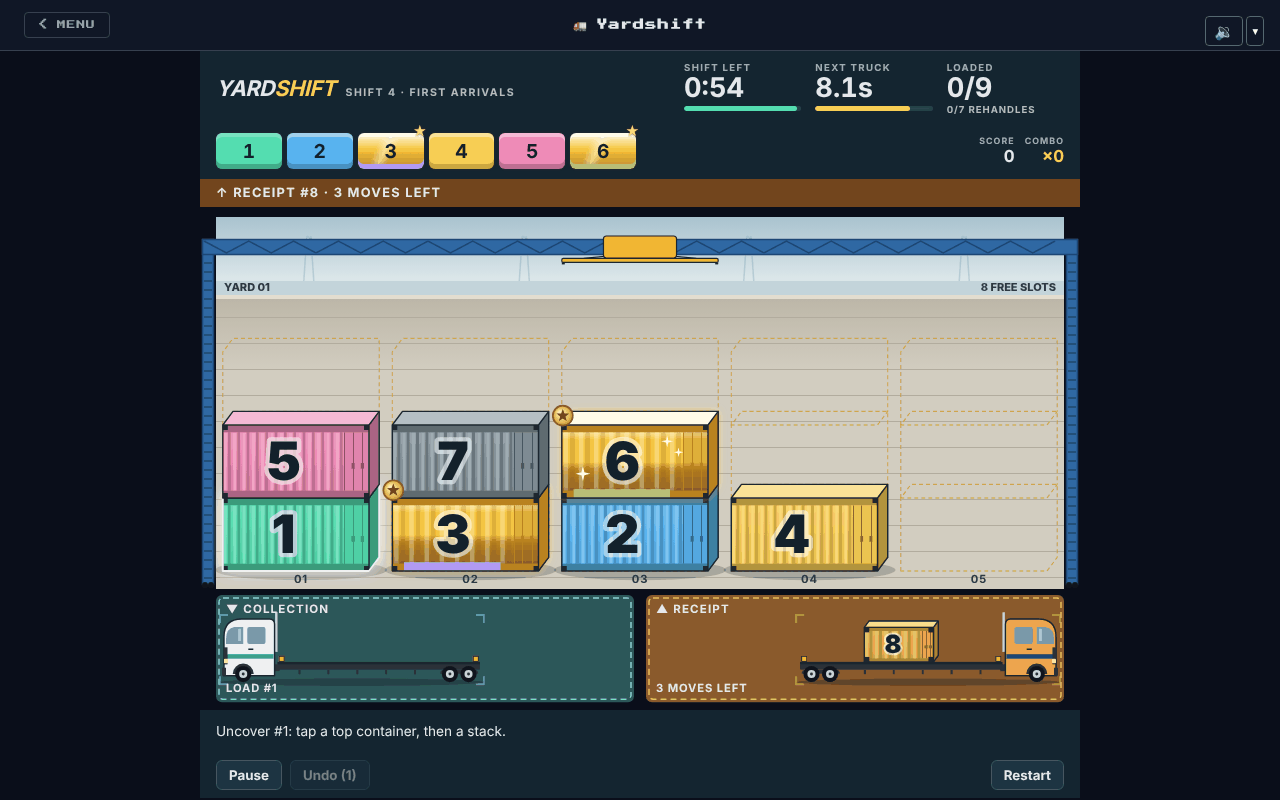
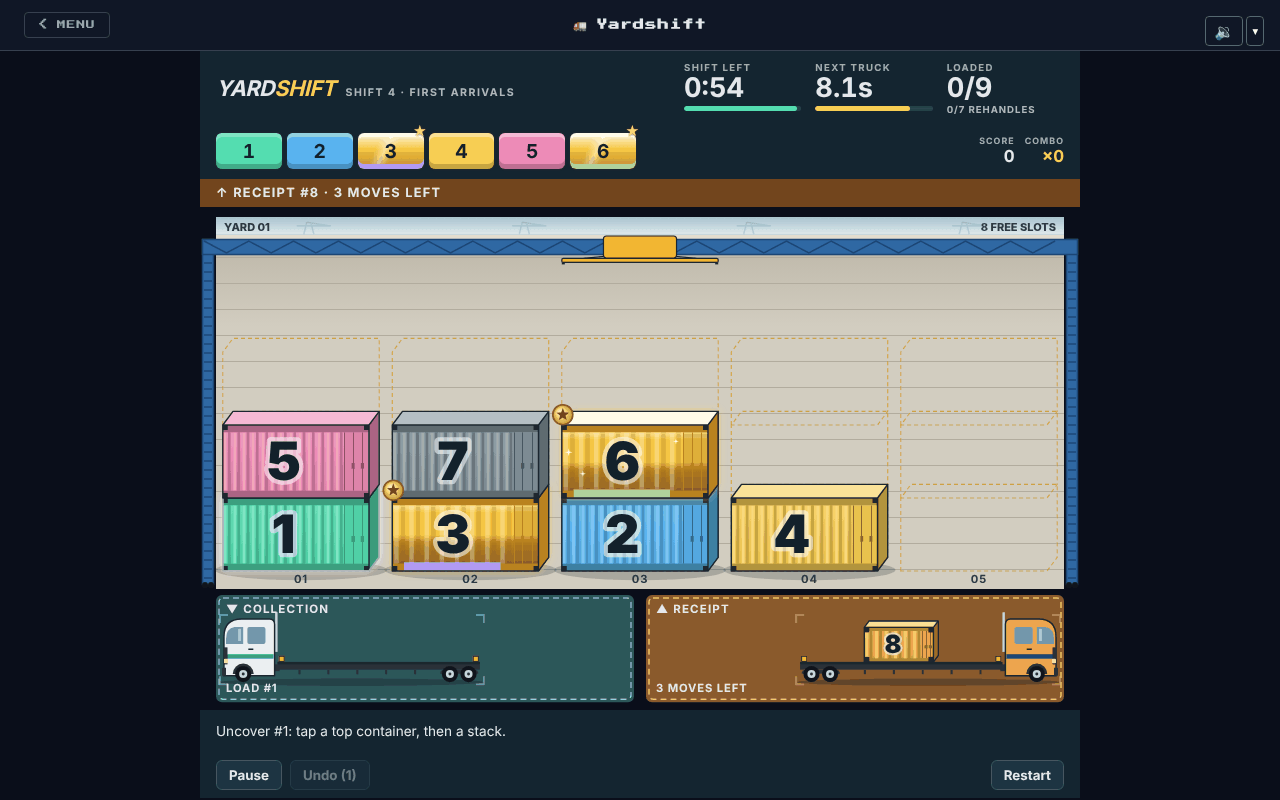
Yardshift: gantry beam at the top of the concrete, cables lower the spreader to the stacks
The beam sat one spreader gap above the crane headroom, so on a tall phone yard it crossed the middle of the
concrete. It now tops the concrete just under the sky band (still capped at 22 % of the yard); the trolley's
cables span down to the spreader, which rests just above the headroom. The geometry test checks the beam top is
within 3 px of the sky band bottom at every level and five surfaces. Proof captures and cover re-taken.

Claude-Session: https://claude.ai/code/session_0155BNjwPfcnFQSyZNLHGLyJ

diff --git a/src/sims/yardshift/modules/yardGeometry.ts b/src/sims/yardshift/modules/yardGeometry.ts
@@ -21,7 +21,7 @@ export interface Gantry {
   left: number
   right: number
   legW: number
-  /** Top of the beam and its height; legs run from the beam down to `footY`. */
+  /** Top of the beam (the top of the concrete, just under the sky band) and its height; legs run down to `footY`. */
   beamY: number
   beamH: number
   footY: number
@@ -108,12 +108,14 @@ export function yardGeometry(layout: Layout, capacity: number): YardGeometry {
   const boxH = boxHFor(colW, cap, groundY - yard.y - (fixedFor(colW) - LABEL_PX))
   // A short room keeps the box container shaped: it narrows instead of flattening.
   const boxW = Math.min(fullW, boxH * ASPECT_MAX)
-  // The crane carries a box one box above a full stack; the beam sits just above that, the spreader between.
+  // The crane carries a box one box above a full stack (the crane headroom); at rest the spreader hangs there.
   const carryY = groundY - (cap + 1) * boxH - 2
-  const beamY = Math.floor(carryY - dy - SPREADER - beamH)
-  // The sky band is at most `SKY_SHARE` of the yard: the concrete starts just above the top slot, or higher on a tall
-  // yard, so spare height becomes concrete headroom rather than empty sky.
-  const floorY = Math.round(Math.min(groundY - cap * boxH - dy - 3, Math.max(yard.y + SKY_MIN, yard.y + yard.h * SKY_SHARE)))
+  // The beam sits at the top of the concrete, just under the sky band, and the hoist cables span the gap down to the
+  // spreader. The sky band is at most `SKY_SHARE` of the yard; on a short yard it ends where the beam still clears a
+  // carried box, so the beam never sinks into the headroom.
+  const lowestBeam = Math.floor(carryY - dy - SPREADER - beamH)
+  const floorY = Math.round(Math.min(lowestBeam, Math.max(yard.y + SKY_MIN, yard.y + yard.h * SKY_SHARE)))
+  const beamY = floorY
   const backdrop = { x: yard.x, y: yard.y, w: yard.w, h: floorY - yard.y }
   const floor = { x: yard.x, y: floorY, w: yard.w, h: yard.y + yard.h - floorY }
   const legW = Math.max(6, Math.min(12, yard.x - 4))

diff --git a/src/sims/yardshift/modules/yardGeometry.test.ts b/src/sims/yardshift/modules/yardGeometry.test.ts
@@ -35,16 +35,20 @@ describe('Yardshift 2D yard geometry', () => {
         }
       })
 
-      it('full stacks fill the yard: no bare concrete above the top slot, the beam just above the crane headroom', () => {
+      it('full stacks fill the yard; the beam tops the concrete and a carried box clears a full stack', () => {
         for (const level of LEVELS) {
           const layout = layoutFor(level.stacks.length, vp, level.capacity)
           const g = yardGeometry(layout, level.capacity)
           // The sky band is at most about a fifth of the yard; spare height is concrete headroom, not sky.
           expect(g.backdrop.h, `level ${level.number}`).toBeLessThanOrEqual(layout.yard.h * 0.22 + 1)
-          // A carried box clears a full stack, and the beam sits just above it (spreader room only).
+          // A carried box clears a full stack, and still hangs below the beam (room for the spreader).
           const fullTop = g.groundY - level.capacity * g.boxH
           expect(g.carryY + g.boxH).toBeLessThanOrEqual(fullTop)
-          expect(g.carryY - g.dy - (g.gantry.beamY + g.gantry.beamH)).toBeLessThanOrEqual(10)
+          expect(g.carryY - g.dy - (g.gantry.beamY + g.gantry.beamH)).toBeGreaterThanOrEqual(8)
+          // The beam sits at the top of the concrete, just under the sky band, not across the middle of the yard.
+          expect(Math.abs(g.gantry.beamY - (g.backdrop.y + g.backdrop.h)), `level ${level.number}`).toBeLessThanOrEqual(3)
+          // The legs run from the beam down the full yard.
+          expect(g.gantry.footY).toBeGreaterThanOrEqual(g.groundY)
           // Boxes are sized from the column width first: on a phone they are as tall as the 1.8:1 shape allows.
           if (s.w < 600) expect(g.boxW / g.boxH, `level ${level.number}`).toBeLessThan(1.9)
         }

diff --git a/src/sims/yardshift/yardshift-AGENTS.md b/src/sims/yardshift/yardshift-AGENTS.md
@@ -46,9 +46,11 @@ and crane frames, and a backing store scaled by `devicePixelRatio` (capped at 3)
   orchestrator review of pass 2): boxes are sized from the column width first (side 0.86 of the column, door end 0.06,
   top rise 0.08), as tall as `ASPECT_MIN` 1.8:1 allows (`boxHFor`); a short room narrows a box rather than flattening
   it past `ASPECT_MAX` 2.4. The stacks need full capacity plus one box of crane headroom (a carried box, `carryY`,
-  clears a full stack); the gantry beam (`beamHFor`) sits just above that with spreader room only, under a sky strip
-  of at least `SKY_MIN`. The sky band is at most `SKY_SHARE` (22 %) of the yard: the concrete starts just above the
-  top slot, or higher on a tall yard, so spare height becomes concrete headroom, never a tall empty sky. `yardFit(colW, capacity, maxH)` gives the box height and the yard that fits it
+  clears a full stack; at rest the spreader hangs there). The gantry beam (`beamHFor`) sits at the top of the
+  concrete, just under the sky band, with the legs running down the full yard; the trolley rides the beam and its
+  cables lower the spreader, so cable length follows the move. The sky band is at least `SKY_MIN` and at most
+  `SKY_SHARE` (22 %) of the yard; on a short yard it ends where the beam still clears a carried box (spreader room),
+  so spare height becomes concrete headroom under the beam, never a tall empty sky. `yardFit(colW, capacity, maxH)` gives the box height and the yard that fits it
   exactly. Each bay's truck (`truckIn(bay, geo, facing)`): tractor cab at the end it faces (the receipt truck faces
   right with its cab under `arrowBox`, the collection truck faces left), a heavy skeletal trailer, three axles, cargo
   a yard box scaled up to `MAX_CARGO_SCALE` 1.6, the cab up to 28 % of the bay width, the whole truck filling most of the bay width and centred
@@ -56,7 +58,7 @@ and crane frames, and a backing store scaled by `devicePixelRatio` (capped at 3)
   `boxBounds` its whole drawn area. `modules/yardGeometry.test.ts` proves, for every level and five surfaces, that
   every slot (the top one lifted too) lies inside its own column hit region and under the beam, the box aspect stays
   1.8 to 2.4 (under 1.9 on a phone), the sky band is at most 22 % of the yard, the carried box clears a full stack
-  and the beam sits within 10 px above it, the legs touch no column, and each truck (both facings) lies inside its
+  at least 8 px below the beam, the beam top within 3 px of the sky band bottom, the legs touch no column, and each truck (both facings) lies inside its
   bay, fills most of its width, is vertically centred, has its cab ahead of the trailer and its wheels on the road,
   with the cargo on the trailer and the arrow over the receipt cab, clear of the cargo.
 - `layoutFor(stackCount, viewport, capacity)` (`present` passes the capacity): the bays take `BAY_SHARE` (22 %, at
